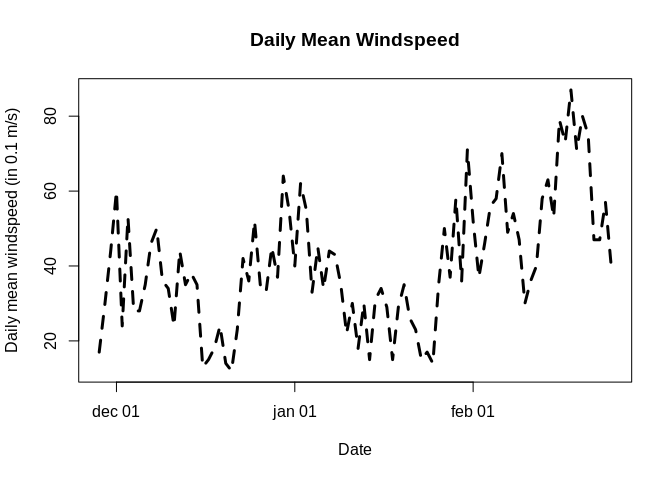
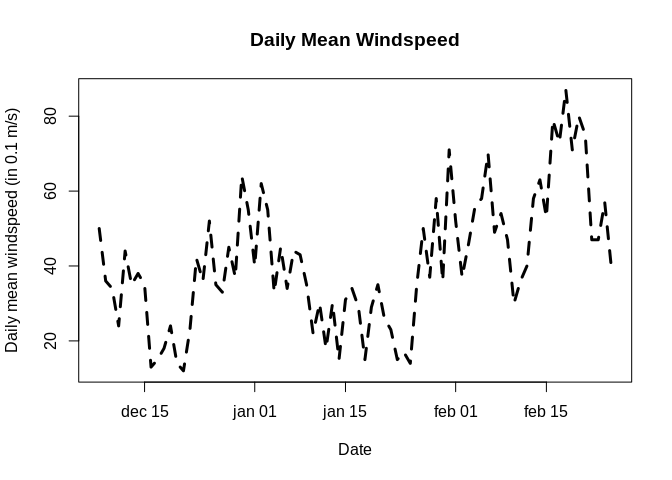
add new plot

diff --git a/README.md b/README.md
@@ -71,7 +71,7 @@ plot(
 
 
 # or plot the daily mean windspeed:
-df <- tail(data, 90)
+df <- tail(data, 80)
 
 plot(
   df$YYYYMMDD, df$FG, 
